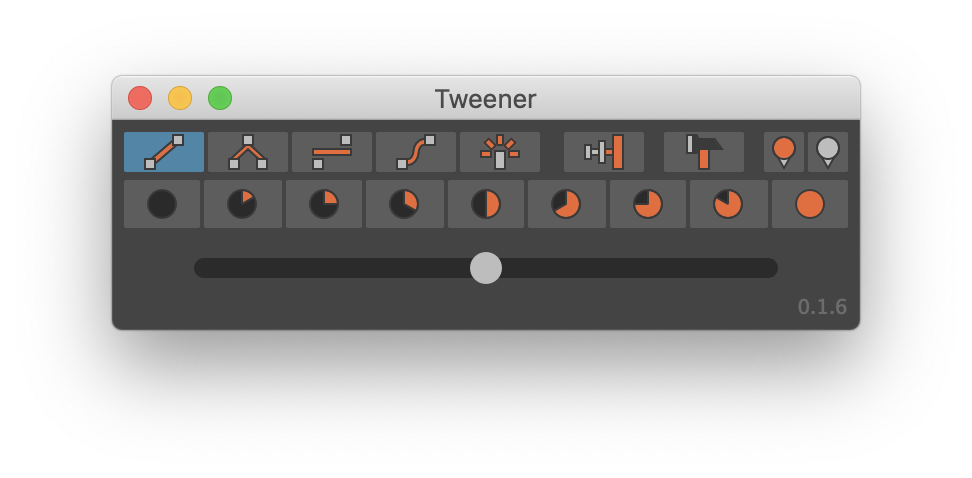
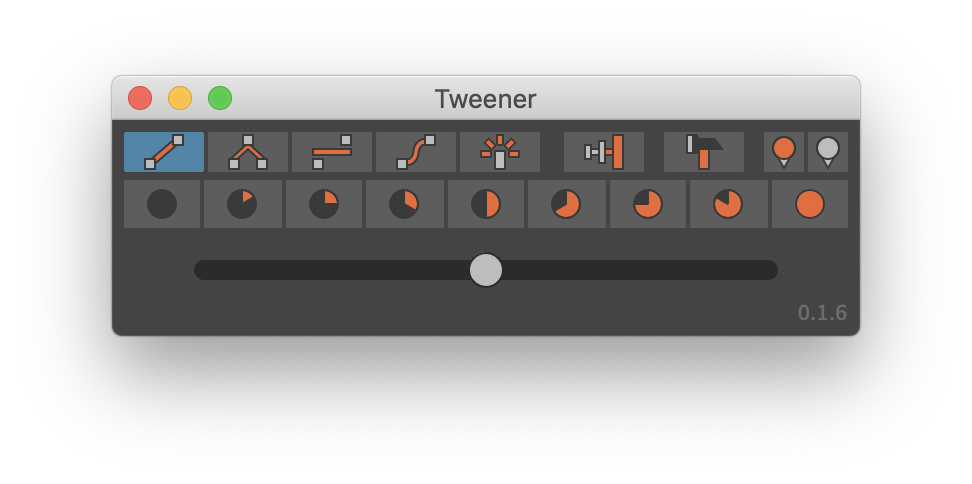
Final testing of Windows hidpi support.

Changed region(s): [[0.1235, 0.1464, 0.8951, 0.4979], [0.1235, 0.6444, 0.8951, 0.7029]]

diff --git a/mods/ui.py b/mods/ui.py
@@ -1,6 +1,7 @@
 """
 ui module
 """
+import math
 
 import maya.api.OpenMaya as om
 import maya.OpenMayaUI as omui
@@ -106,7 +107,8 @@ class TweenerUI(MayaQWidgetDockableMixin, QMainWindow):
             'QPushButton { padding: 0; border-radius: %spx; background-color: rgb(93, 93, 93); }'
             'QPushButton:hover { background-color: rgb(112, 112, 112); }'
             'QPushButton:pressed { background-color: rgb(29, 29, 29); }'
-            'QPushButton:checked { background-color: rgb(82, 133, 166); }' % (apply_dpi_scaling(3), apply_dpi_scaling(2), apply_dpi_scaling(1))
+            'QPushButton:checked { background-color: rgb(82, 133, 166); }' % (
+                apply_dpi_scaling(3), apply_dpi_scaling(2), apply_dpi_scaling(1))
         )
         
         widget_height = apply_dpi_scaling(16)
@@ -203,7 +205,7 @@ class TweenerUI(MayaQWidgetDockableMixin, QMainWindow):
         slider_layout.setSpacing(apply_dpi_scaling(4))
         
         self.slider = QSlider(Qt.Horizontal)
-        self.slider.setFixedHeight(widget_height)
+        self.slider.setFixedHeight(widget_height + apply_dpi_scaling(3))
         self.slider.setFixedWidth(apply_dpi_scaling(300))
         self.slider.setValue(0)
         self.slider.setMinimum(-100)
@@ -214,11 +216,13 @@ class TweenerUI(MayaQWidgetDockableMixin, QMainWindow):
         self.slider.sliderReleased.connect(self.slider_released)
         
         groove_height = apply_dpi_scaling(10)
-        groove_border_radius = groove_height / 2.0 - 1
+        groove_border_radius = int(groove_height / 2.0)
         groove_margin = apply_dpi_scaling(4)
-        handle_margin = apply_dpi_scaling(-3)
-        handle_width = groove_height - 2 * handle_margin
-        handle_border_radius = handle_width / 2.0 - 1
+        handle_border = apply_dpi_scaling(1)
+        handle_margin = apply_dpi_scaling(-3) - handle_border
+        handle_width = groove_height - 2 * handle_margin - 2 * handle_border
+        handle_border_radius = int((handle_width + handle_border * 2) / 2.0)
+        
         self.slider.setStyleSheet("QSlider::groove:horizontal {"
                                   "background-color: #2B2B2B;"
                                   "border: 0px solid #2B2B2B;"
@@ -229,10 +233,11 @@ class TweenerUI(MayaQWidgetDockableMixin, QMainWindow):
                                   "QSlider::handle:horizontal {"
                                   "background: #BDBDBD;"
                                   "width: %spx;"  # groove height = 10, plus margin -3px * 2 === 16px
+                                  "border: %spx solid #2b2b2b;"
                                   "border-radius: %spx;"
                                   "margin: %spx 0; padding: 0;"  # negative margin expands outside groove
-                                  "}" % (groove_height, groove_border_radius, groove_margin, 
-                                  		 handle_width, handle_border_radius, handle_margin))
+                                  "}" % (groove_height, groove_border_radius, groove_margin,
+                                         handle_width, handle_border, handle_border_radius, handle_margin))
         
         slider_layout.setAlignment(self.slider, Qt.AlignCenter)
         slider_layout.addWidget(self.slider)
@@ -512,7 +517,7 @@ class PresetButton(QPushButton):
         self.rect = QRect(self.padding_x, self.padding_y + stroke_w, self.pie_rect_size, self.pie_rect_size)
         
         # self.setFixedWidth(radius + self.padding_x * 2 + stroke_w)
-        self.setFixedHeight(radius + apply_dpi_scaling(3) * stroke_w + self.padding_y * 2)
+        self.setFixedHeight(radius + 3 * stroke_w + self.padding_y * 2)
         # self.setFixedSize(radius + self.padding_x * 2 + stroke_w, radius + 3 * stroke_w + self.padding_y * 2)
         self.setSizePolicy(QSizePolicy.Minimum, QSizePolicy.Minimum)
         
@@ -523,7 +528,7 @@ class PresetButton(QPushButton):
         self.accent_color = QColor(0, 0, 0)
         self.accent_color.setNamedColor('#DF6E41')  # maya orange
         self.dark_color = QColor(0, 0, 0)
-        self.dark_color.setNamedColor('#2A2A2A')  # semi dark gray
+        self.dark_color.setNamedColor('#3A3A3A')  # old #2a2a2a
     
     def paintEvent(self, event):
         # draw the normal button
@@ -544,12 +549,12 @@ class PresetButton(QPushButton):
         
         # highlighted area
         if 0 < abs(self.angle) < 360:
-            painter.setPen(QPen(self.stroke_color, 1))
+            painter.setPen(QPen(self.stroke_color, apply_dpi_scaling(1)))
         painter.setBrush(self.accent_color)
         painter.drawPie(self.rect, 90.0 * 16, self.angle * -16)
         
         # stroke
-        painter.setPen(QPen(self.stroke_color, 1))
+        painter.setPen(QPen(self.stroke_color, apply_dpi_scaling(1)))
         painter.setBrush(Qt.NoBrush)
         painter.drawEllipse(self.rect)
         
@@ -565,9 +570,14 @@ class PresetButton(QPushButton):
             self.update()
 
 
-def apply_dpi_scaling(value):
+def apply_dpi_scaling(value, asfloat=False):
     if hasattr(cmds, 'mayaDpiSetting'):
         scale = cmds.mayaDpiSetting(q=True, realScaleValue=True)
-        return int(scale * value)
+        result = scale * value
     else:
-        return int(value)
+        result = value
+    
+    if asfloat:
+        return result
+    else:
+        return int(round(result))
